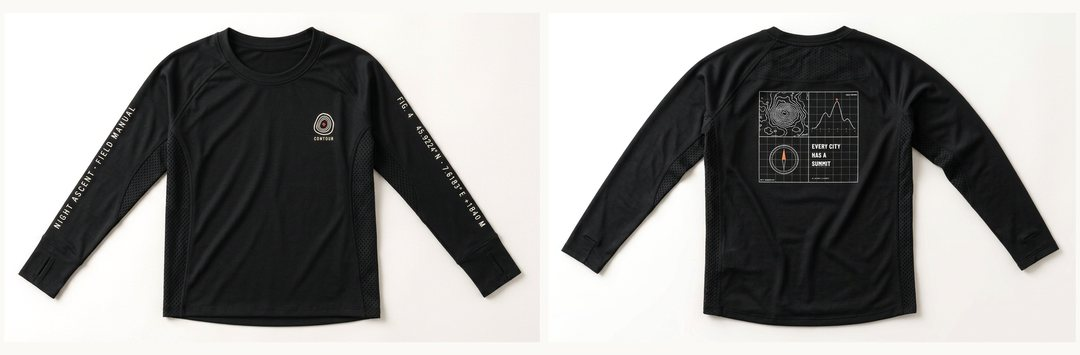
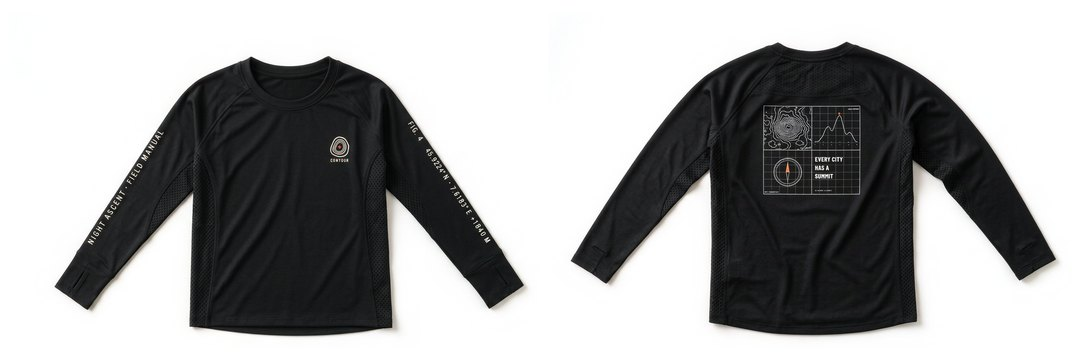
Production: studio colourway photos, uniform background, updated copy

Changed region(s): [[0.0, 0.062, 0.4889, 0.9296], [0.5194, 0.062, 1.0, 0.8986], [0.6722, 0.8676, 0.8556, 0.9296]]

diff --git a/index.html b/index.html
@@ -465,19 +465,19 @@
           <div class="x-g x-ways">
             <article class="x-way--a">
               <figure class="x-spec-plate">
-                <div class="x-spec-plate__bar x-cap"><span>Colourway 01 — Contour 01</span><span>Front / Back · 52.52°N 13.40°E</span></div>
-                <img src="a-v5-front-back.jpg" srcset="a-v5-front-back-640.jpg 640w, a-v5-front-back-1080.jpg 1080w, a-v5-front-back.jpg 2000w" sizes="(max-width: 860px) 92vw, 620px" width="2000" height="1091" loading="lazy" decoding="async" alt="Contour 01 long sleeve in bone, front and back, with cobalt topo grid and orange route print, watch slit and thumbhole on both cuffs" />
+                <div class="x-spec-plate__bar x-cap"><span>Colourway 01 — Keep Climbing</span><span>Front / Back · 52.52°N 13.40°E</span></div>
+                <img src="cw01-studio-front-back.jpg" srcset="cw01-studio-front-back-640.jpg 640w, cw01-studio-front-back-1080.jpg 1080w, cw01-studio-front-back.jpg 2000w" sizes="(max-width: 860px) 92vw, 620px" width="2000" height="802" loading="lazy" decoding="async" alt="Keep Climbing long sleeve in bone, front and back: Contour 01 on the chest, Elevation · Pace · Distance on the sleeve, a cobalt topo map with orange route and Keep Climbing across the back" />
               </figure>
               <div class="x-way__meta">
-                <p class="x-body">Bone with cobalt topo grid and orange route print.</p>
+                <p class="x-body">Bone with a cobalt topo grid, orange route markers and an elevation profile. Sleeve: Elevation · Pace · Distance.</p>
                 <p class="x-cap"><span class="x-sw" style="background: #efe9dc"></span>Base: bone · Sheet A</p>
                 <div class="x-way__back"><span class="x-cap">Back</span><p class="x-h3">“Keep climbing”</p></div>
               </div>
             </article>
             <article class="x-way--c">
               <figure class="x-spec-plate">
-                <div class="x-spec-plate__bar x-cap"><span>Colourway 02 — Night Ascent</span><span>Front / Back · 45.9224°N 7.6183°E</span></div>
-                <img src="c-black-blueprint-front-back.jpg" srcset="c-black-blueprint-front-back-640.jpg 640w, c-black-blueprint-front-back-1080.jpg 1080w, c-black-blueprint-front-back.jpg 2000w" sizes="(max-width: 860px) 92vw, 700px" width="2000" height="1091" loading="lazy" decoding="async" alt="Night Ascent long sleeve in black, front and back: Contour logo on the chest, a bone-white technical blueprint across the back with terrain and elevation profile figures, and lettering on both sleeves" />
+                <div class="x-spec-plate__bar x-cap"><span>Colourway 02 — Field Manual</span><span>Front / Back · 45.9224°N 7.6183°E</span></div>
+                <img src="cw02-studio-front-back.jpg" srcset="cw02-studio-front-back-640.jpg 640w, cw02-studio-front-back-1080.jpg 1080w, cw02-studio-front-back.jpg 2000w" sizes="(max-width: 860px) 92vw, 700px" width="2000" height="657" loading="lazy" decoding="async" alt="Field Manual long sleeve in black, front and back: Contour logo on the chest, a bone-white technical blueprint across the back with terrain and elevation profile figures, and lettering on both sleeves" />
               </figure>
               <div class="x-way__meta">
                 <p class="x-body">Black with a bone-white technical blueprint: terrain and elevation profile figures, summit marked in orange. Sleeves: Night Ascent · Field Manual, and the coordinates to +1840 M.</p>
@@ -487,12 +487,12 @@
             </article>
             <article class="x-way--b">
               <figure class="x-spec-plate">
-                <div class="x-spec-plate__bar x-cap"><span>Colourway 03 — Unknown Territory</span><span>Front / Back · 45.9763°N 7.6586°E</span></div>
-                <img src="b-v4-front-back.jpg" srcset="b-v4-front-back-640.jpg 640w, b-v4-front-back-1080.jpg 1080w, b-v4-front-back.jpg 2000w" sizes="(max-width: 860px) 92vw, 440px" width="2000" height="1091" loading="lazy" decoding="async" alt="Unknown Territory long sleeve in deep green, front and back, with a halftone gradient rising from green to orange and FIRST LIGHT across the back" />
+                <div class="x-spec-plate__bar x-cap"><span>Colourway 03 — First Light</span><span>Front / Back · 45.9763°N 7.6586°E</span></div>
+                <img src="cw03-studio-front-back.jpg" srcset="cw03-studio-front-back-640.jpg 640w, cw03-studio-front-back-1080.jpg 1080w, cw03-studio-front-back.jpg 2000w" sizes="(max-width: 860px) 92vw, 440px" width="2000" height="696" loading="lazy" decoding="async" alt="First Light long sleeve, front and back: night navy fading to orange at the hem and cuffs, a contour ring across the back and First Light lettering" />
               </figure>
               <div class="x-way__meta">
-                <p class="x-body">Deep green with a halftone gradient that rises from green to orange, like first light on a ridge.</p>
-                <p class="x-cap"><span class="x-sw" style="background: #24503A"></span>Base: forest · Sheet C</p>
+                <p class="x-body">Night navy fading to orange along a ridge line, like first light on the mountain. Chest: Every city has a summit.</p>
+                <p class="x-cap"><span class="x-sw" style="background: #1c2a44"></span>Base: night navy · Sheet C</p>
                 <div class="x-way__back"><span class="x-cap">Back</span><p class="x-h3">“First light”</p></div>
               </div>
             </article>
@@ -513,15 +513,15 @@
                   <ellipse class="x-ring" cx="720" cy="388" rx="135" ry="135" />
                   <path d="M815 293L1100 150H1180" />
                 </svg>
-                <span class="x-call x-cap" style="right: 78.7%; top: 86%"><b>01</b><span>Thumbhole</span></span>
+                <span class="x-call x-cap" style="right: 78.7%; top: 86%"><b>01</b><span>Thumb opening</span></span>
                 <span class="x-call x-cap" style="left: 83.8%; top: 19.5%"><b>02</b><span>Watch slit</span></span>
               </div>
               <figcaption class="x-cap"><span>Fig. 01 — Cuff, both sides</span><span>Callouts 01 · 02</span></figcaption>
             </figure>
             <ol class="x-legend">
-              <li><span class="x-cap">01</span><h3 class="x-h3">Thumbholes</h3><p>Bound cuffs keep hands warm on cold starts.</p></li>
+              <li><span class="x-cap">01</span><h3 class="x-h3">Thumb opening</h3><p>Built into the cuff seam, so the sleeve covers your hand on cold starts.</p></li>
               <li><span class="x-cap">02</span><h3 class="x-h3">Watch slit</h3><p>A bonded slit on both cuffs. Slide the watch through, read your pace, and the sleeve stays put. Closed flat when you don’t need it.</p></li>
-              <li><span class="x-cap">03</span><h3 class="x-h3">Breathable knit</h3><p>120–140 gsm recycled polyester/elastane. Moisture-wicking, 4-way stretch.</p></li>
+              <li><span class="x-cap">03</span><h3 class="x-h3">Breathable knit</h3><p>Lightweight polyester/elastane, 130–150 gsm. Moisture-wicking, 4-way stretch.</p></li>
               <li><span class="x-cap">04</span><h3 class="x-h3">Mesh ventilation</h3><p>Underarm and side panels.</p></li>
               <li><span class="x-cap">05</span><h3 class="x-h3">Flatlock seams, tagless</h3><p>Nothing to rub over long miles.</p></li>
               <li><span class="x-cap">06</span><h3 class="x-h3">Reflective tab</h3><p>Back hem, for low light.</p></li>
@@ -540,7 +540,7 @@
           <div class="x-rule x-cap"><span>04 / Field notes</span><span>Designed in Europe</span></div>
           <div class="x-g">
             <figure class="x-plate x-notes__fig">
-              <img src="explorer-flatlay-v3.jpg" srcset="explorer-flatlay-v3-640.jpg 640w, explorer-flatlay-v3-1080.jpg 1080w, explorer-flatlay-v3.jpg 1264w" sizes="(max-width: 860px) 92vw, 700px" width="1264" height="848" loading="lazy" decoding="async" alt="The Night Ascent long sleeve laid flat on a topographic map with a compass, pencil and fabric swatch" />
+              <img src="field-manual-flatlay.jpg" srcset="field-manual-flatlay-640.jpg 640w, field-manual-flatlay-1080.jpg 1080w, field-manual-flatlay.jpg 1264w" sizes="(max-width: 860px) 92vw, 700px" width="1264" height="848" loading="lazy" decoding="async" alt="The Field Manual long sleeve laid flat on a topographic map with a compass, pencil and fabric swatch" />
               <figcaption class="x-cap"><span>Plate 02 — Studio table</span><span>48.14°N 11.58°E</span></figcaption>
             </figure>
             <h2 class="x-display x-notes__h">Drawn from survey maps.</h2>
